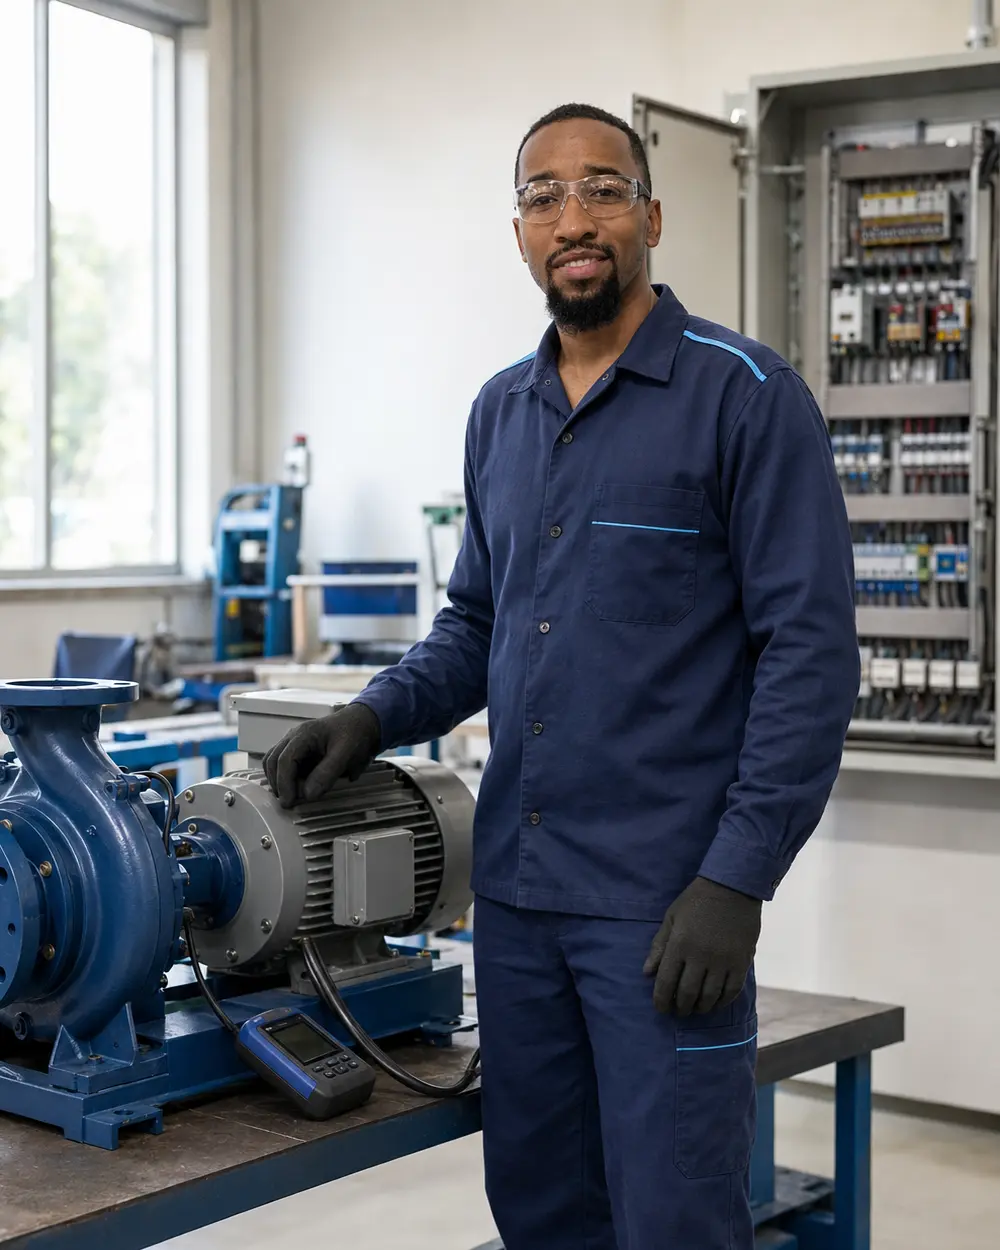
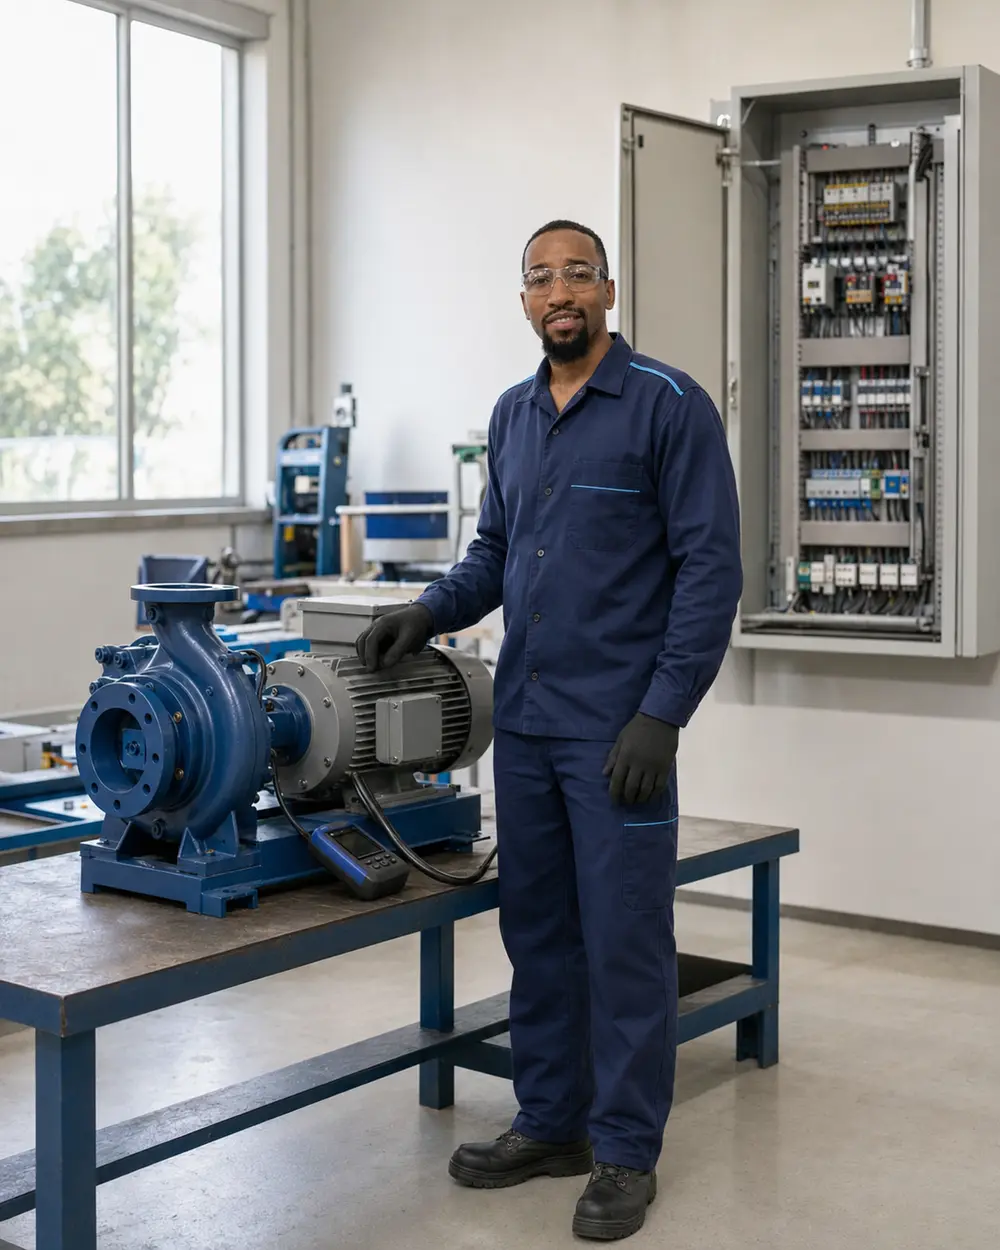
Compacta seções e corrige escala da foto do Caio

diff --git a/app/globals.css b/app/globals.css
@@ -21,7 +21,7 @@ img { max-width: 100%; display: block; }
 ::selection { background: rgba(143, 200, 235, 0.55); color: var(--navy); }
 
 .section-shell { width: min(1240px, calc(100% - 48px)); margin-inline: auto; }
-.section-block { padding: 112px 0; }
+.section-block { padding: 72px 0; }
 
 .site-header { position: sticky; top: 0; z-index: 50; background: rgba(255,255,255,.92); backdrop-filter: blur(18px); border-bottom: 1px solid rgba(221,230,241,.85); }
 .nav-shell { width: min(1240px, calc(100% - 48px)); height: 82px; margin: auto; display: flex; align-items: center; gap: 26px; }
@@ -72,33 +72,33 @@ h1 em { color: var(--blue); font-style: normal; }
 .confidence-bar p { margin: 0; color: #415675; font-size: 14px; font-weight: 520; }
 .confidence-bar a { margin-left: auto; display: flex; align-items: center; gap: 8px; color: var(--blue); font-size: 12.5px; font-weight: 700; white-space: nowrap; }
 
-.intent-section { padding: 68px 0 28px; }
+.intent-section { padding: 54px 0 20px; }
 .intent-heading { max-width: 780px; margin-bottom: 29px; }
 .intent-heading h2 { margin: 13px 0 14px; font-size: clamp(34px, 4vw, 50px); line-height: 1.08; letter-spacing: -.045em; }
 .intent-heading p { max-width: 680px; margin: 0; color: var(--slate); font-size: 14px; line-height: 1.7; }
 .intent-grid { display: grid; grid-template-columns: repeat(3, 1fr); gap: 14px; }
-.intent-grid > a { min-height: 116px; display: grid; grid-template-columns: 49px 1fr 20px; align-items: center; gap: 15px; padding: 20px; border: 1px solid var(--line); border-radius: 20px; background: white; box-shadow: 0 12px 34px rgba(25,51,90,.06); transition: transform .2s, border-color .2s, box-shadow .2s; }
+.intent-grid > a { min-height: 104px; display: grid; grid-template-columns: 45px 1fr 20px; align-items: center; gap: 14px; padding: 17px 18px; border: 1px solid var(--line); border-radius: 20px; background: white; box-shadow: 0 12px 34px rgba(25,51,90,.06); transition: transform .2s, border-color .2s, box-shadow .2s; }
 .intent-grid > a:hover { transform: translateY(-3px); border-color: var(--blue-light); box-shadow: 0 18px 42px rgba(25,51,90,.11); }
 .intent-grid > a > svg { color: var(--blue); }
 .intent-icon { width: 49px; height: 49px; display: grid; place-items: center; border-radius: 15px; background: #edf7fc; color: var(--blue); }
 .intent-grid strong, .intent-grid small { display: block; }
 .intent-grid strong { margin-bottom: 6px; color: var(--navy); font-size: 14px; line-height: 1.3; }
 .intent-grid small { color: var(--slate); font-size: 10.5px; line-height: 1.5; }
-.intent-section + #servicos { padding-top: 84px; }
+.intent-section + #servicos { padding-top: 68px; }
 
-.split-heading { display: grid; grid-template-columns: 1.2fr .8fr; gap: 70px; align-items: end; margin-bottom: 43px; }
+.split-heading { display: grid; grid-template-columns: 1.2fr .8fr; gap: 58px; align-items: end; margin-bottom: 32px; }
 .section-heading h2 { max-width: 720px; margin: 13px 0 0; font-size: clamp(35px, 4vw, 53px); line-height: 1.08; letter-spacing: -.045em; }
 .split-heading > p { max-width: 470px; margin: 0 0 4px; color: var(--slate); font-size: 15px; line-height: 1.75; }
 .services-grid { display: grid; grid-template-columns: repeat(3, 1fr); gap: 17px; }
-.service-card { position: relative; min-height: 330px; display: flex; flex-direction: column; padding: 27px; border: 1px solid var(--line); border-radius: 24px; background: white; transition: border-color .25s, transform .25s, box-shadow .25s; }
+.service-card { position: relative; min-height: 248px; display: flex; flex-direction: column; padding: 19px; border: 1px solid var(--line); border-radius: 22px; background: white; transition: border-color .25s, transform .25s, box-shadow .25s; }
 .service-card:hover { transform: translateY(-5px); border-color: var(--blue-light); box-shadow: var(--shadow); }
-.service-top { display: flex; align-items: center; justify-content: space-between; margin-bottom: 36px; }
-.service-icon { width: 49px; height: 49px; display: grid; place-items: center; border-radius: 15px; background: var(--soft); color: var(--blue); }
+.service-top { display: flex; align-items: center; justify-content: space-between; margin-bottom: 10px; }
+.service-icon { width: 42px; height: 42px; display: grid; place-items: center; border-radius: 13px; background: var(--soft); color: var(--blue); }
 .service-code { color: #a3afc0; font-size: 11px; letter-spacing: .12em; }
-.service-card h3 { max-width: 270px; margin-bottom: 14px; font-size: 20px; line-height: 1.25; letter-spacing: -.025em; }
-.service-card p { color: var(--slate); font-size: 13.5px; line-height: 1.7; }
-.service-card-actions { margin-top: auto; display: grid; gap: 9px; padding-top: 15px; border-top: 1px solid #edf2f7; }
-.service-card a { display: inline-flex; align-items: center; gap: 8px; color: var(--blue); font-size: 12.5px; font-weight: 720; }
+.service-card h3 { max-width: 270px; margin-bottom: 8px; font-size: 18px; line-height: 1.2; letter-spacing: -.02em; }
+.service-card p { color: var(--slate); font-size: 12.5px; line-height: 1.5; }
+.service-card-actions { margin-top: auto; display: grid; gap: 5px; padding-top: 10px; border-top: 1px solid #edf2f7; }
+.service-card a { display: inline-flex; align-items: center; gap: 7px; color: var(--blue); font-size: 11.5px; font-weight: 720; }
 .service-card .service-whatsapp-link { color: #60738e; font-size: 10.5px; font-weight: 620; }
 .service-card .service-whatsapp-link:hover { color: var(--blue); }
 
@@ -113,28 +113,28 @@ h1 em { color: var(--blue); font-style: normal; }
 .button-white { border-color: white; background: white; color: var(--navy); box-shadow: 0 12px 30px rgba(0,0,0,.14); }
 .button-white:hover { background: #eef7fc; color: var(--navy); }
 
-.centered-heading { max-width: 790px; margin: 0 auto 44px; text-align: center; }
+.centered-heading { max-width: 790px; margin: 0 auto 32px; text-align: center; }
 .centered-heading .section-kicker { justify-content: center; }
 .centered-heading h2 { margin-inline: auto; }
 .centered-heading p { max-width: 600px; margin: 16px auto 0; color: var(--slate); line-height: 1.7; }
 .differentials-grid { display: grid; grid-template-columns: repeat(3, 1fr); gap: 16px; }
-.differential-card { min-height: 250px; position: relative; padding: 28px; border: 1px solid var(--line); border-radius: 23px; background: linear-gradient(155deg, white, #f9fbfd); }
+.differential-card { min-height: 210px; position: relative; padding: 24px; border: 1px solid var(--line); border-radius: 22px; background: linear-gradient(155deg, white, #f9fbfd); }
 .differential-number { position: absolute; top: 23px; right: 25px; color: #b4c0cf; font-size: 10px; letter-spacing: .13em; }
-.mini-check { width: 39px; height: 39px; display: grid; place-items: center; margin-bottom: 39px; border-radius: 12px; background: #eaf5fb; color: var(--blue); }
+.mini-check { width: 39px; height: 39px; display: grid; place-items: center; margin-bottom: 24px; border-radius: 12px; background: #eaf5fb; color: var(--blue); }
 .differential-card h3 { margin-bottom: 12px; font-size: 18px; letter-spacing: -.02em; }
 .differential-card p { margin: 0; color: var(--slate); font-size: 13.5px; line-height: 1.7; }
 
 .process-section { background: var(--soft); border-block: 1px solid #e8eff6; }
 .process-grid { list-style: none; margin: 0; padding: 0; display: grid; grid-template-columns: repeat(5, 1fr); border: 1px solid var(--line); border-radius: 25px; overflow: hidden; background: white; }
-.process-grid li { min-height: 270px; padding: 27px 24px; border-right: 1px solid var(--line); }
+.process-grid li { min-height: 220px; padding: 24px 22px; border-right: 1px solid var(--line); }
 .process-grid li:last-child { border-right: 0; }
-.process-grid li > span { display: block; margin-bottom: 58px; color: var(--blue); font-size: 12px; font-weight: 760; letter-spacing: .12em; }
+.process-grid li > span { display: block; margin-bottom: 34px; color: var(--blue); font-size: 12px; font-weight: 760; letter-spacing: .12em; }
 .process-grid h3 { margin-bottom: 12px; font-size: 17px; line-height: 1.3; }
 .process-grid p { margin: 0; color: var(--slate); font-size: 12.5px; line-height: 1.65; }
 
-.about-grid { display: grid; grid-template-columns: .96fr 1.04fr; gap: 75px; align-items: center; }
-.about-media { min-height: 610px; position: relative; overflow: hidden; border-radius: 29px; background: #eaf1f6; box-shadow: var(--shadow); }
-.about-media > img { width: 100%; height: 610px; object-fit: cover; }
+.about-grid { display: grid; grid-template-columns: .96fr 1.04fr; gap: 58px; align-items: center; }
+.about-media { min-height: 520px; position: relative; overflow: hidden; border-radius: 27px; background: #eaf1f6; box-shadow: var(--shadow); }
+.about-media > img { width: 100%; height: 520px; object-fit: cover; }
 .about-caption { position: absolute; left: 20px; right: 20px; bottom: 20px; display: flex; align-items: center; gap: 20px; padding: 20px 22px; border-radius: 17px; background: rgba(255,255,255,.91); backdrop-filter: blur(12px); }
 .about-caption strong { color: var(--blue); font-size: 19px; }
 .about-caption span { color: var(--slate); font-size: 11px; }
@@ -143,27 +143,27 @@ h1 em { color: var(--blue); font-style: normal; }
 .text-link { display: inline-flex; align-items: center; gap: 9px; margin-top: 8px; color: var(--blue); font-size: 13px; font-weight: 720; }
 
 .caio-profile-section { background: linear-gradient(135deg, #f4f9fd 0%, #edf6fb 100%); border-block: 1px solid #e4edf5; }
-.caio-profile-grid { display: grid; grid-template-columns: .92fr 1.08fr; gap: 75px; align-items: center; }
+.caio-profile-grid { display: grid; grid-template-columns: .92fr 1.08fr; gap: 58px; align-items: center; }
 .caio-profile-copy h2 { margin: 15px 0 12px; font-size: clamp(40px, 4.7vw, 61px); line-height: 1.04; letter-spacing: -.047em; }
 .caio-profile-copy > p { max-width: 610px; color: var(--slate); font-size: 14.5px; line-height: 1.82; }
 .caio-profile-copy .caio-role { margin-bottom: 24px; color: var(--blue); font-size: 15px; font-weight: 740; letter-spacing: -.01em; }
 .caio-tags { display: flex; flex-wrap: wrap; gap: 9px; margin-top: 29px; }
 .caio-tags span { display: inline-flex; align-items: center; gap: 7px; padding: 11px 14px; border: 1px solid #d5e4ef; border-radius: 999px; background: rgba(255,255,255,.78); color: #405777; font-size: 11px; font-weight: 650; }
 .caio-tags svg { color: var(--blue); }
-.caio-profile-media { min-height: 660px; position: relative; overflow: hidden; border-radius: 29px; background: #dceaf3; box-shadow: var(--shadow); }
-.caio-profile-media > img { width: 100%; height: 660px; display: block; object-fit: cover; object-position: center 25%; }
+.caio-profile-media { min-height: 540px; position: relative; overflow: hidden; border-radius: 27px; background: #dceaf3; box-shadow: var(--shadow); }
+.caio-profile-media > img { width: 100%; height: 540px; display: block; object-fit: cover; object-position: center 25%; }
 .caio-profile-badge { position: absolute; left: 22px; bottom: 22px; display: flex; align-items: center; gap: 12px; padding: 13px 17px 13px 12px; border-radius: 16px; color: var(--navy); background: rgba(255,255,255,.92); backdrop-filter: blur(12px); box-shadow: 0 10px 30px rgba(25,51,90,.14); }
 .caio-profile-badge small, .caio-profile-badge strong { display: block; }
 .caio-profile-badge small { margin-bottom: 2px; color: var(--slate); font-size: 10px; }
 .caio-profile-badge strong { font-size: 13px; }
 
 .audiences-section { background: linear-gradient(135deg, #f4f9fd, #eef5fa); }
-.compact-section { padding-block: 88px; }
+.compact-section { padding-block: 64px; }
 .audience-cloud { display: flex; flex-wrap: wrap; justify-content: center; gap: 11px; }
 .audience-cloud span { display: flex; align-items: center; gap: 13px; padding: 15px 21px; border: 1px solid #d8e6f1; border-radius: 999px; background: rgba(255,255,255,.78); color: #3f5574; font-size: 13px; font-weight: 620; }
 .audience-cloud b { color: var(--blue); font-size: 9px; letter-spacing: .08em; }
 
-.region-grid { display: grid; grid-template-columns: 1.06fr .94fr; gap: 75px; align-items: center; }
+.region-grid { display: grid; grid-template-columns: 1.06fr .94fr; gap: 58px; align-items: center; }
 .region-copy h2 { max-width: 630px; margin: 15px 0 23px; font-size: clamp(39px, 4.6vw, 59px); line-height: 1.05; letter-spacing: -.047em; }
 .region-copy > p { max-width: 630px; color: var(--slate); line-height: 1.75; }
 .region-info { display: grid; grid-template-columns: 1fr 1fr; gap: 12px; margin: 28px 0 18px; }
@@ -173,7 +173,7 @@ h1 em { color: var(--blue); font-style: normal; }
 .region-info strong { font-size: 14px; }
 .region-info span { margin-top: 5px; color: var(--slate); font-size: 11px; }
 .region-copy .cost-note { font-size: 11.5px; }
-.modalities-card { padding: 39px; border-radius: 27px; background: var(--navy); color: white; box-shadow: 0 24px 60px rgba(25,51,90,.2); }
+.modalities-card { padding: 32px; border-radius: 25px; background: var(--navy); color: white; box-shadow: 0 24px 60px rgba(25,51,90,.2); }
 .large-icon { width: 56px; height: 56px; background: rgba(143,200,235,.17); color: #b9e4f9; }
 .modalities-card h3 { margin: 22px 0; font-size: 25px; letter-spacing: -.03em; }
 .modalities-card ul { list-style: none; padding: 0; margin: 0 0 30px; display: grid; grid-template-columns: 1fr 1fr; gap: 13px 18px; }
@@ -181,63 +181,63 @@ h1 em { color: var(--blue); font-style: normal; }
 .modalities-card li svg { color: var(--blue-light); }
 
 .portfolio-section { background: #f6f9fc; border-block: 1px solid #e8eff6; }
-.portfolio-grid { display: grid; grid-template-columns: repeat(3, 1fr); grid-auto-flow: dense; grid-auto-rows: 305px; gap: 16px; }
+.portfolio-grid { display: grid; grid-template-columns: repeat(3, 1fr); grid-auto-rows: 238px; gap: 14px; }
 .portfolio-item { min-width: 0; position: relative; overflow: hidden; margin: 0; border-radius: 24px; background: #d9e5ed; box-shadow: 0 14px 34px rgba(25,51,90,.1); }
-.portfolio-item-1 { grid-column: span 2; }
-.portfolio-item-6 { grid-column: 1 / -1; height: 390px; }
+.portfolio-item-1, .portfolio-item-6 { grid-column: auto; height: auto; }
 .portfolio-item img { width: 100%; height: 100%; display: block; object-fit: cover; transition: transform .55s ease; }
 .portfolio-item-1 img { object-position: center 42%; }
 .portfolio-item-6 img { object-position: center 56%; }
 .portfolio-item:hover img { transform: scale(1.035); }
 .portfolio-shade { position: absolute; inset: 0; background: linear-gradient(180deg, transparent 28%, rgba(13,31,54,.88) 100%); }
-.portfolio-item figcaption { position: absolute; z-index: 1; left: 0; right: 0; bottom: 0; padding: 30px; color: white; }
+.portfolio-item figcaption { position: absolute; z-index: 1; left: 0; right: 0; bottom: 0; padding: 22px; color: white; }
 .portfolio-item figcaption span { display: block; margin-bottom: 8px; color: #aeddF7; font-size: 9px; font-weight: 780; letter-spacing: .13em; text-transform: uppercase; }
 .portfolio-item figcaption strong { display: block; font-size: 20px; line-height: 1.2; letter-spacing: -.02em; }
-.portfolio-item figcaption p { max-width: 520px; margin: 8px 0 0; color: #dbe7f1; font-size: 11px; line-height: 1.55; }
+.portfolio-item figcaption p { max-width: 520px; margin: 6px 0 0; color: #dbe7f1; font-size: 10px; line-height: 1.45; }
 
 .faq-section { background: var(--soft); }
-.faq-grid { display: grid; grid-template-columns: .72fr 1.28fr; gap: 80px; align-items: start; }
+.faq-grid { display: grid; grid-template-columns: .72fr 1.28fr; gap: 58px; align-items: start; }
 .faq-intro { position: sticky; top: 120px; }
 .faq-intro h2 { margin: 15px 0 20px; font-size: clamp(38px, 4.3vw, 54px); line-height: 1.06; letter-spacing: -.045em; }
 .faq-intro p { margin-bottom: 26px; color: var(--slate); line-height: 1.7; }
 .faq-list { border-top: 1px solid #cfdbe8; }
 .faq-list details { border-bottom: 1px solid #cfdbe8; }
-.faq-list summary { min-height: 78px; display: flex; align-items: center; justify-content: space-between; gap: 18px; cursor: pointer; list-style: none; color: #2d4465; font-size: 15px; font-weight: 680; }
+.faq-list summary { min-height: 68px; display: flex; align-items: center; justify-content: space-between; gap: 18px; cursor: pointer; list-style: none; color: #2d4465; font-size: 14px; font-weight: 680; }
 .faq-list summary::-webkit-details-marker { display: none; }
 .faq-list summary span { width: 31px; height: 31px; flex: 0 0 31px; display: grid; place-items: center; border-radius: 50%; background: white; color: var(--blue); font-size: 19px; font-weight: 400; transition: transform .2s; }
 .faq-list details[open] summary span { transform: rotate(45deg); }
 .faq-list details p { max-width: 680px; padding: 0 48px 24px 0; margin: 0; color: var(--slate); font-size: 13px; line-height: 1.7; }
 
-.contact-panel { display: grid; grid-template-columns: .76fr 1.24fr; overflow: hidden; border-radius: 31px; background: var(--navy); box-shadow: var(--shadow); }
-.contact-intro { padding: 56px 48px; color: white; }
-.contact-intro h2 { margin: 15px 0 20px; font-size: clamp(39px, 4.5vw, 58px); line-height: 1.04; letter-spacing: -.047em; }
-.contact-intro > p { color: #d6e2ef; font-size: 14px; line-height: 1.75; }
-.contact-direct { margin-top: 31px; padding-top: 23px; border-top: 1px solid rgba(255,255,255,.14); }
+.contact-panel { display: grid; grid-template-columns: .92fr 1.08fr; overflow: hidden; border-radius: 29px; background: var(--navy); box-shadow: var(--shadow); }
+.contact-intro { display: grid; grid-template-columns: 1fr 1fr; column-gap: 20px; align-content: center; padding: 36px; color: white; }
+.contact-intro > .section-kicker, .contact-intro > h2, .contact-intro > p, .contact-intents { grid-column: 1 / -1; }
+.contact-intro h2 { margin: 13px 0 16px; font-size: clamp(36px, 3.5vw, 46px); line-height: 1.05; letter-spacing: -.045em; }
+.contact-intro > p { color: #d6e2ef; font-size: 13px; line-height: 1.62; }
+.contact-direct { margin-top: 18px; padding-top: 15px; border-top: 1px solid rgba(255,255,255,.14); }
 .contact-direct small, .contact-direct a, .contact-direct strong { display: block; }
 .contact-direct small { margin-bottom: 8px; color: var(--blue-light); font-size: 9px; font-weight: 760; text-transform: uppercase; letter-spacing: .12em; }
 .contact-direct a, .contact-direct strong { font-size: 13px; font-weight: 620; overflow-wrap: anywhere; }
 .contact-direct a:hover { color: var(--blue-light); }
-.contact-intents { display: grid; gap: 9px; margin: 28px 0 8px; }
-.contact-intents a { display: flex; align-items: center; gap: 13px; padding: 13px 14px; border: 1px solid rgba(255,255,255,.14); border-radius: 14px; background: rgba(255,255,255,.06); transition: background .2s, border-color .2s, transform .2s; }
+.contact-intents { display: grid; grid-template-columns: repeat(3, 1fr); gap: 8px; margin: 18px 0 4px; }
+.contact-intents a { display: flex; flex-direction: column; align-items: flex-start; gap: 9px; padding: 11px 12px; border: 1px solid rgba(255,255,255,.14); border-radius: 13px; background: rgba(255,255,255,.06); transition: background .2s, border-color .2s, transform .2s; }
 .contact-intents a:hover { transform: translateX(3px); border-color: rgba(143,200,235,.45); background: rgba(143,200,235,.12); }
 .contact-intents svg { flex: 0 0 auto; color: var(--blue-light); }
 .contact-intents span, .contact-intents strong, .contact-intents small { display: block; }
 .contact-intents strong { font-size: 12px; }
 .contact-intents small { margin-top: 3px; color: #aebfd0; font-size: 9.5px; }
-.contact-intro .contact-security { display: flex; align-items: flex-start; gap: 8px; margin-top: 30px; color: #b9c9da; font-size: 10.5px; }
-.contact-form { display: grid; grid-template-columns: 1fr 1fr; gap: 17px; padding: 47px; background: white; }
+.contact-intro .contact-security { grid-column: 1 / -1; display: flex; align-items: flex-start; gap: 8px; margin-top: 20px; color: #b9c9da; font-size: 10px; }
+.contact-form { display: grid; grid-template-columns: 1fr 1fr; align-content: center; gap: 12px; padding: 32px; background: white; }
 .contact-form label { display: grid; gap: 7px; color: #405675; font-size: 11px; font-weight: 690; }
 .contact-form input, .contact-form textarea, .contact-form select { width: 100%; border: 1px solid #d5e0eb; border-radius: 12px; background: #fbfcfe; color: var(--navy); padding: 13px 14px; font-size: 13px; outline: none; }
 .contact-form input, .contact-form select { min-height: 47px; }
-.contact-form textarea { resize: vertical; min-height: 128px; }
+.contact-form textarea { resize: vertical; min-height: 104px; }
 .contact-form input::placeholder, .contact-form textarea::placeholder { color: #9ba9ba; }
 .wide-field { grid-column: 1 / -1; }
-.form-intro { display: flex; align-items: center; gap: 13px; padding-bottom: 18px; border-bottom: 1px solid var(--line); }
+.form-intro { display: flex; align-items: center; gap: 13px; padding-bottom: 13px; border-bottom: 1px solid var(--line); }
 .form-intro > span { width: 34px; height: 34px; flex: 0 0 34px; display: grid; place-items: center; border-radius: 50%; background: #e8f2f9; color: var(--blue); font-size: 12px; font-weight: 800; }
 .form-intro strong, .form-intro p { display: block; margin: 0; }
 .form-intro strong { font-size: 14px; }
 .form-intro p { margin-top: 3px; color: var(--slate); font-size: 10px; line-height: 1.5; }
-.photo-guidance { display: flex; align-items: flex-start; gap: 10px; padding: 14px 15px; border: 1px solid #d5e5ef; border-radius: 13px; background: #f3f9fc; color: #536984; font-size: 10.5px; line-height: 1.55; }
+.photo-guidance { display: flex; align-items: flex-start; gap: 10px; padding: 11px 13px; border: 1px solid #d5e5ef; border-radius: 13px; background: #f3f9fc; color: #536984; font-size: 10.5px; line-height: 1.5; }
 .photo-guidance svg { flex: 0 0 auto; color: var(--blue); }
 .photo-guidance strong { color: var(--navy); }
 .consent-field { display: flex !important; grid-template-columns: auto 1fr; align-items: flex-start; gap: 10px !important; line-height: 1.5; }
@@ -245,9 +245,9 @@ h1 em { color: var(--blue); font-style: normal; }
 .submit-button { width: fit-content; border: 0; cursor: pointer; }
 .submit-note { align-self: center; margin: 0; color: var(--slate); font-size: 9.5px; line-height: 1.5; }
 .form-success { grid-column: 1 / -1; margin: 0; padding: 13px; border-radius: 10px; background: #edf8f2; color: #2f6b4b; font-size: 11px; }
-.honeypot { position: absolute !important; left: -10000px; opacity: 0; }
+.honeypot { position: absolute !important; left: -10000px; width: 1px !important; height: 1px !important; min-height: 0 !important; padding: 0 !important; opacity: 0; }
 
-.final-cta { margin-bottom: 112px; display: flex; align-items: center; justify-content: space-between; gap: 55px; padding: 53px 57px; border-radius: 29px; background: linear-gradient(135deg, #dceff9, #c9e6f6); }
+.final-cta { margin-bottom: 72px; display: flex; align-items: center; justify-content: space-between; gap: 48px; padding: 43px 48px; border-radius: 27px; background: linear-gradient(135deg, #dceff9, #c9e6f6); }
 .final-cta > div:first-child { max-width: 720px; }
 .final-cta h2 { margin: 13px 0 13px; font-size: clamp(34px, 4vw, 49px); line-height: 1.08; letter-spacing: -.043em; }
 .final-cta p { margin: 0; color: #546b87; line-height: 1.65; }
@@ -394,7 +394,7 @@ h1 em { color: var(--blue); font-style: normal; }
   .intent-grid { gap: 10px; }
   .intent-grid > a { min-height: 96px; padding: 17px; }
   .intent-section + #servicos { padding-top: 72px; }
-  .section-block { padding: 82px 0; }
+  .section-block { padding: 62px 0; }
   .split-heading { grid-template-columns: 1fr; gap: 20px; margin-bottom: 31px; }
   .section-heading h2 { font-size: 38px; }
   .services-grid { grid-template-columns: 1fr; }
@@ -417,22 +417,24 @@ h1 em { color: var(--blue); font-style: normal; }
   .about-copy h2, .region-copy h2 { font-size: 40px; }
   .caio-profile-grid { gap: 37px; }
   .caio-profile-copy h2 { font-size: 40px; }
-  .caio-profile-media { min-height: 520px; }
-  .caio-profile-media > img { height: 520px; }
+  .caio-profile-media { min-height: 470px; }
+  .caio-profile-media > img { height: 470px; }
   .caio-profile-badge { left: 13px; right: 13px; bottom: 13px; }
   .region-info { grid-template-columns: 1fr; }
   .modalities-card { padding: 28px 22px; }
   .modalities-card ul { grid-template-columns: 1fr; }
-  .portfolio-grid { grid-template-columns: 1fr 1fr; grid-auto-rows: 260px; }
+  .portfolio-grid { grid-template-columns: 1fr 1fr; grid-auto-rows: 240px; }
   .portfolio-item-1, .portfolio-item-6 { grid-column: 1 / -1; height: auto; }
   .portfolio-item figcaption { padding: 22px; }
   .faq-intro { position: static; }
   .faq-list summary { min-height: 72px; font-size: 13px; }
   .contact-panel { grid-template-columns: 1fr; border-radius: 24px; }
-  .contact-intro { padding: 37px 24px; }
-  .contact-form { grid-template-columns: 1fr; padding: 27px 20px; }
+  .contact-intro { display: block; padding: 34px 24px; }
+  .contact-intents { grid-template-columns: 1fr; }
+  .contact-intents a { flex-direction: row; align-items: center; }
+  .contact-form { grid-template-columns: 1fr; padding: 25px 20px; }
   .contact-form label, .wide-field { grid-column: 1; }
-  .final-cta { margin-bottom: 82px; flex-direction: column; align-items: stretch; padding: 35px 24px; }
+  .final-cta { margin-bottom: 62px; flex-direction: column; align-items: stretch; padding: 32px 24px; }
   .final-actions { width: 100%; }
   .footer-grid { grid-template-columns: 1fr 1fr; gap: 37px 25px; }
   .footer-brand { grid-column: 1 / -1; }
